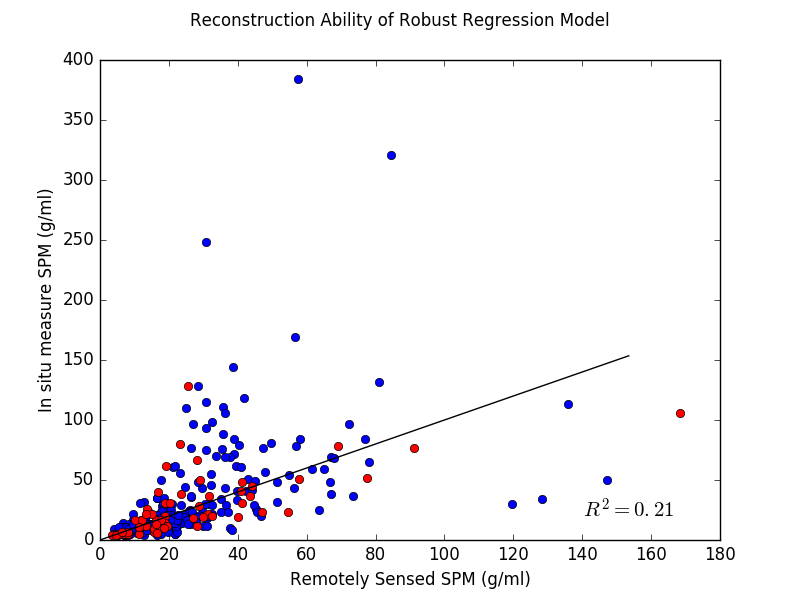
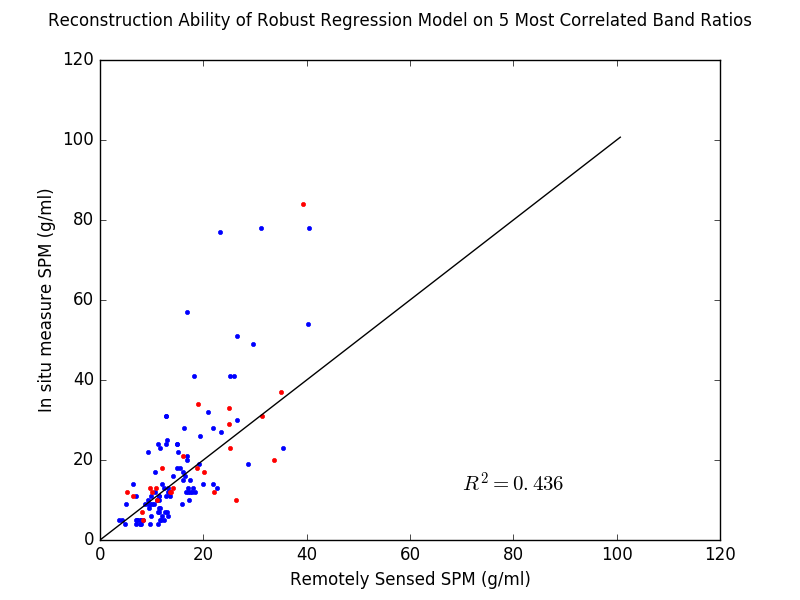
added k490 regression (not any better) and made plot of r2 vs cutoffs

diff --git a/learning/make_plots.py b/learning/make_plots.py
@@ -5,10 +5,83 @@ import numpy as np
 from sklearn.metrics import r2_score
 seed = 4
 
+def r2_vs_time_cutoff(times):
+    # times = np.array([1,2,4])
+
+    r2s = np.zeros_like(times,dtype='float64')
+    num_data = np.zeros_like(times,dtype='int32')
+
+    for index,time in enumerate(times):
+        # print index,time
+        x,y=regression.get_data(filenames=['/Users/Nathan/Dropbox/SedimentLearning/data/landsat_polaris_filtered/filtered_{}hr.csv'.format(time)])
+        x = regression.division_feature_expansion(x)
+        # ONLY top 5 bands
+        x = x[:,[29,9,14,28,5]]
+        logy = np.log(y)
+        alpha = 8
+
+        model = mycvx.kfolds_convex(x, logy, alpha, random_seed=seed)
+        y_test = model['data']['y_test']
+        y_pred = model['data']['y_pred']
+        y_train = model['data']['y_train']
+        y_train_pred = model['data']['y_train_pred']
+
+
+        r2_test = np.round(r2_score(y_test, y_pred), 3)
+        r2_train = np.round(r2_score(y_train, y_train_pred), 3)
+        # print r2_train,r2_test
+        r2s[index] = r2_train
+        num_data[index] = x.shape[0]
+
+        print r2s,num_data
+    return r2s,num_data
+
+def plot_r2_over_time_diff():
+    times = np.array([1,2,4,8,12,16,20,24])
+    # r2s,num_data = r2_vs_time_cutoff(times)
+    r2s,num_data = [ 0.508,  0.54,   0.516,  0.415,  0.415,  0.415,  0.433,  0.417], [ 61, 126, 234, 281, 281, 281, 298, 480]
+
+    fig = plt.figure()
+    ax = fig.add_subplot(111)
+    ax1plot = ax.plot(times, r2s, 'ob')
+
+    ax2 = ax.twinx()
+    ax2plot = ax2.plot(times,num_data,'or')
+
+    ax.set_xticks([1,2,4,6,8,12,16,20,24])
+
+    ax.legend(ax1plot+ax2plot,['R^2','Number of Samples'],loc=2)
+    # ax2.legend('Num Samples')
+    # ax.legend(loc=1)
+    # ax2.legend(loc=2)
+
+    ax2.set_ylabel('Number of Samples')
+    fig.suptitle('R^2s of Robust Regression Model versus Data Collection Time Difference Threshold')
+    ax.set_xlabel('Data Collection Time Difference Threshold (hrs)')
+    ax.set_ylabel('R^2 of Robust Regression')
+
+    ax.axis([0,26,0,.8])
+    ax2.axis([0,26,0,500])
+
+    # print (max(np.max(y_pred), np.max(y_test))- np.min(np.min(y_pred), 0))*5./6. - np.min(np.min(y_pred), 0)
+    #ax.text((max(np.max(y_pred), np.max(y_test))- min(np.min(y_pred), 0))*5./6. - min(np.min(y_pred), 0), np.max(y_test)/7.,  r'$R^2=%s$' % (r2train), fontsize=15)
+    plt.savefig('../figures/huber_training_r2_vs_time')
+    # plt.show()
+
+
 def make_huber_train_band_ratios():
-    x,y=regression.get_data() # 8hr data
+    '''
+    on 8hr data, the r2 for the log regression is .555 and .21 when unlogged
+    :return:
+    '''
+
+    x,y=regression.get_data(filenames=['/Users/Nathan/Dropbox/SedimentLearning/data/landsat_polaris_filtered/filtered_2hr.csv']) # 8hr data
     x = regression.division_feature_expansion(x)
 
+    # ONLY top 5 bands
+    x = x[:,[29,9,14,28,5]]
+
+    # log spm regression
     logy = np.log(y)
 
     alpha = 8
@@ -24,20 +97,18 @@ def make_huber_train_band_ratios():
     plt.clf()
     fig = plt.figure()
     ax = fig.add_subplot(111)
-    ax.plot(y_train_pred, y_train, 'ob')
-    ax.plot(y_pred, y_test, 'or')
+    ax.plot(y_train_pred, y_train, '.b')
+    ax.plot(y_pred, y_test, '.r')
     ax.plot(np.arange(0, 1.2*np.max(y_test), .1), np.arange(0, 1.2*np.max(y_test), .1), '-k')
-    fig.suptitle('Reconstruction Ability of Robust Regression Model')
-    ax.set_xlabel('Remotely Sensed SPM (g/ml)')
-    ax.set_ylabel('In situ measure SPM (g/ml)')
+    fig.suptitle('Reconstruction Ability of Robust Regression Model on 5 Most Correlated Band Ratios')
+    ax.set_xlabel('Log Remotely Sensed SPM (g/ml)')
+    ax.set_ylabel('Log In situ measure SPM (g/ml)')
 
     # print (max(np.max(y_pred), np.max(y_test))- np.min(np.min(y_pred), 0))*5./6. - np.min(np.min(y_pred), 0)
     ax.text((max(np.max(y_pred), np.max(y_test))- min(np.min(y_pred), 0))*5./6. - min(np.min(y_pred), 0), np.max(y_test)/7.,  r'$R^2=%s$' % (r2train), fontsize=15)
     plt.savefig('../figures/huber_training_band_ratio_log')
     # plt.show()
     print 'r2: ', r2train
-
-
 
     # unlog y_train and pred etc
     y_test = np.exp(y_test)
@@ -50,10 +121,10 @@ def make_huber_train_band_ratios():
     plt.clf()
     fig = plt.figure()
     ax = fig.add_subplot(111)
-    ax.plot(y_train_pred, y_train, 'ob')
-    ax.plot(y_pred, y_test, 'or')
+    ax.plot(y_train_pred, y_train, '.b')
+    ax.plot(y_pred, y_test, '.r')
     ax.plot(np.arange(0, 1.2*np.max(y_test), .1), np.arange(0, 1.2*np.max(y_test), .1), '-k')
-    fig.suptitle('Reconstruction Ability of Robust Regression Model')
+    fig.suptitle('Reconstruction Ability of Robust Regression Model on 5 Most Correlated Band Ratios')
     ax.set_xlabel('Remotely Sensed SPM (g/ml)')
     ax.set_ylabel('In situ measure SPM (g/ml)')
 
@@ -62,6 +133,7 @@ def make_huber_train_band_ratios():
     plt.savefig('../figures/huber_training_band_ratio')
     # plt.show()
     print 'r2: ', r2train
+
 
 def make_huber_test():
     x, y = regression.get_data()
@@ -120,7 +192,7 @@ def make_huber_train():
     print 'r2: ', r2train
 
 if __name__ == '__main__':
-    make_huber_train()
-    make_huber_test()
-    make_huber_train_band_ratios()
-
+    # make_huber_train()
+    # make_huber_test()
+    # make_huber_train_band_ratios()
+    plot_r2_over_time_diff()

diff --git a/learning/regression.py b/learning/regression.py
@@ -333,7 +333,7 @@ def division_feature_expansion(X):
 
     indices = np.arange(X.shape[1])
     for (a, b) in permutations(indices, 2):
-        offset = .001  # avoid divide by zero errors??? totally arbitrary
+        offset = .1  # avoid divide by zero errors??? totally arbitrary
 
         x_new = np.append(x_new, np.array([(xt[a] + offset) / (xt[b] + offset)]), axis=0)
         # print x_new.shape[0] - 1, (a, b)
@@ -462,17 +462,92 @@ def graph_actual_SPM_vs_predicted_SPM(actual, predicted):
     plt.plot(x_line, y_line, '-r')
     plt.show()
 
+def empirical_band_ratio_with_k490():
+    '''
+    Empirical Top 5 Band Ratio with K490 Algorithm
+    (281, 1) (281, 5)
+    LANDSAT-POLARIS samples: 281   features: 6
+    Ridge regression coefs: [ 3.01425862 -3.16674065  0.84799895  1.30535828  1.73418323 -0.91364842]
+
+    Log(spm) regression on top 5 band ratios with k490
+    Ridge Output: RMSE: 0.686204506877
+    Ridge Output: R^2: 0.461545894437
+
+    exp(log(spm) prediction on top 5 band ratios with k490
+    Ridge Output: RMSE: 39.2627578113
+    Ridge Output: R^2: 0.130769876976
+    :return:
+    '''
+    print('\nEmpirical Top 5 Band Ratio with K490 Algorithm')
+
+    # get data
+    x_names = ['reflec_1', 'reflec_2', 'reflec_3', 'reflec_4', 'reflec_5', 'reflec_7']
+    y_names = ['Calculated SPM']
+    filenames = ['/Users/Nathan/Dropbox/SedimentLearning/data/landsat_polaris_filtered/filtered_8hr.csv']
+    X, y = get_data(x_names=x_names, y_names=y_names, filenames=filenames, Y_CODE='Calculated SPM')
+
+    # regression on log spm
+    logy = np.log(y)
+
+    # get top 5 correlated band ratios
+    X = division_feature_expansion(X)
+    # ONLY top 5 bands
+    X = X[:,[29,9,14,28,5]]
+
+    # k490 = 0.016 + 0.1565*  np.power(float(row['reflec_1'])/float(row['reflec_2']),  -1.540 )
+    k490 = 0.016 + 0.1565*np.power(np.divide(X[:,0],X[:,1]), -1.540 )
+    k490 = k490.reshape(k490.size,1)
+
+    print k490.shape,X.shape
+    X = np.append(X,k490,axis=1)
+
+    print 'LANDSAT-POLARIS samples: {}   features: {}'.format(X.shape[0], X.shape[1])
+
+    # start ridge CV for log data
+
+    # array of alphas to test
+    log_alphas = np.array(np.arange(-15, 15, 0.25), dtype='float64')
+    alphas = 2 ** log_alphas
+
+    # fit ridge with cv model
+    clf = linear_model.RidgeCV(alphas=alphas, cv=None, store_cv_values=True)
+    clf.fit(X, logy)
+    print('Ridge regression coefs: {}'.format(clf.coef_))
+
+    y_predict = clf.predict(X)
+    print('\nLog(spm) regression on top 5 band ratios with k490')
+    graph_actual_SPM_vs_predicted_SPM(logy, y_predict)
+    print('exp(log(spm) prediction on top 5 band ratios with k490')
+    graph_actual_SPM_vs_predicted_SPM(y, np.exp(y_predict))
+
 
 def empirical_band_ratio():
     '''
+    8hr data:
+
+    Log(spm) regression on all band ratios
+    Ridge Output: RMSE: 0.642772488652
+    Ridge Output: R^2: 0.527549708894
+    exp(log(spm) prediction on all band ratios
+    Ridge Output: RMSE: 38.1185444285
+    Ridge Output: R^2: 0.180694664267
+
+    Log(spm) regression on top five band ratios
+    Ridge Output: RMSE: 0.685807620503
+    Ridge Output: R^2: 0.462168575561
+    exp(log(spm) prediction on top five band ratios
+    Ridge Output: RMSE: 39.2703225557
+    Ridge Output: R^2: 0.13043489607
 
     :return:
     '''
+    print('\nEmpirical Band Ratio Algorithm')
+
     ## DO LANDSAT REGRESSION
     x_names = ['reflec_1', 'reflec_2', 'reflec_3', 'reflec_4', 'reflec_5', 'reflec_7']
     y_names = ['Calculated SPM']
 
-    filenames = ['/Users/Nathan/Dropbox/SedimentLearning/data/landsat_polaris_filtered/filtered_2hr.csv']
+    filenames = ['/Users/Nathan/Dropbox/SedimentLearning/data/landsat_polaris_filtered/filtered_8hr.csv']
 
     X, y = get_data(x_names=x_names, y_names=y_names, filenames=filenames, Y_CODE='Calculated SPM')
     y1 = np.log(y)
@@ -583,7 +658,7 @@ if __name__ == '__main__':
     # EA_MB_MERIS()
     # EA_BR()
     empirical_band_ratio()
-
+    empirical_band_ratio_with_k490()
 ''' NOTES
 
 landsat 8 band | wavelength | landsat 4,5,7 band
